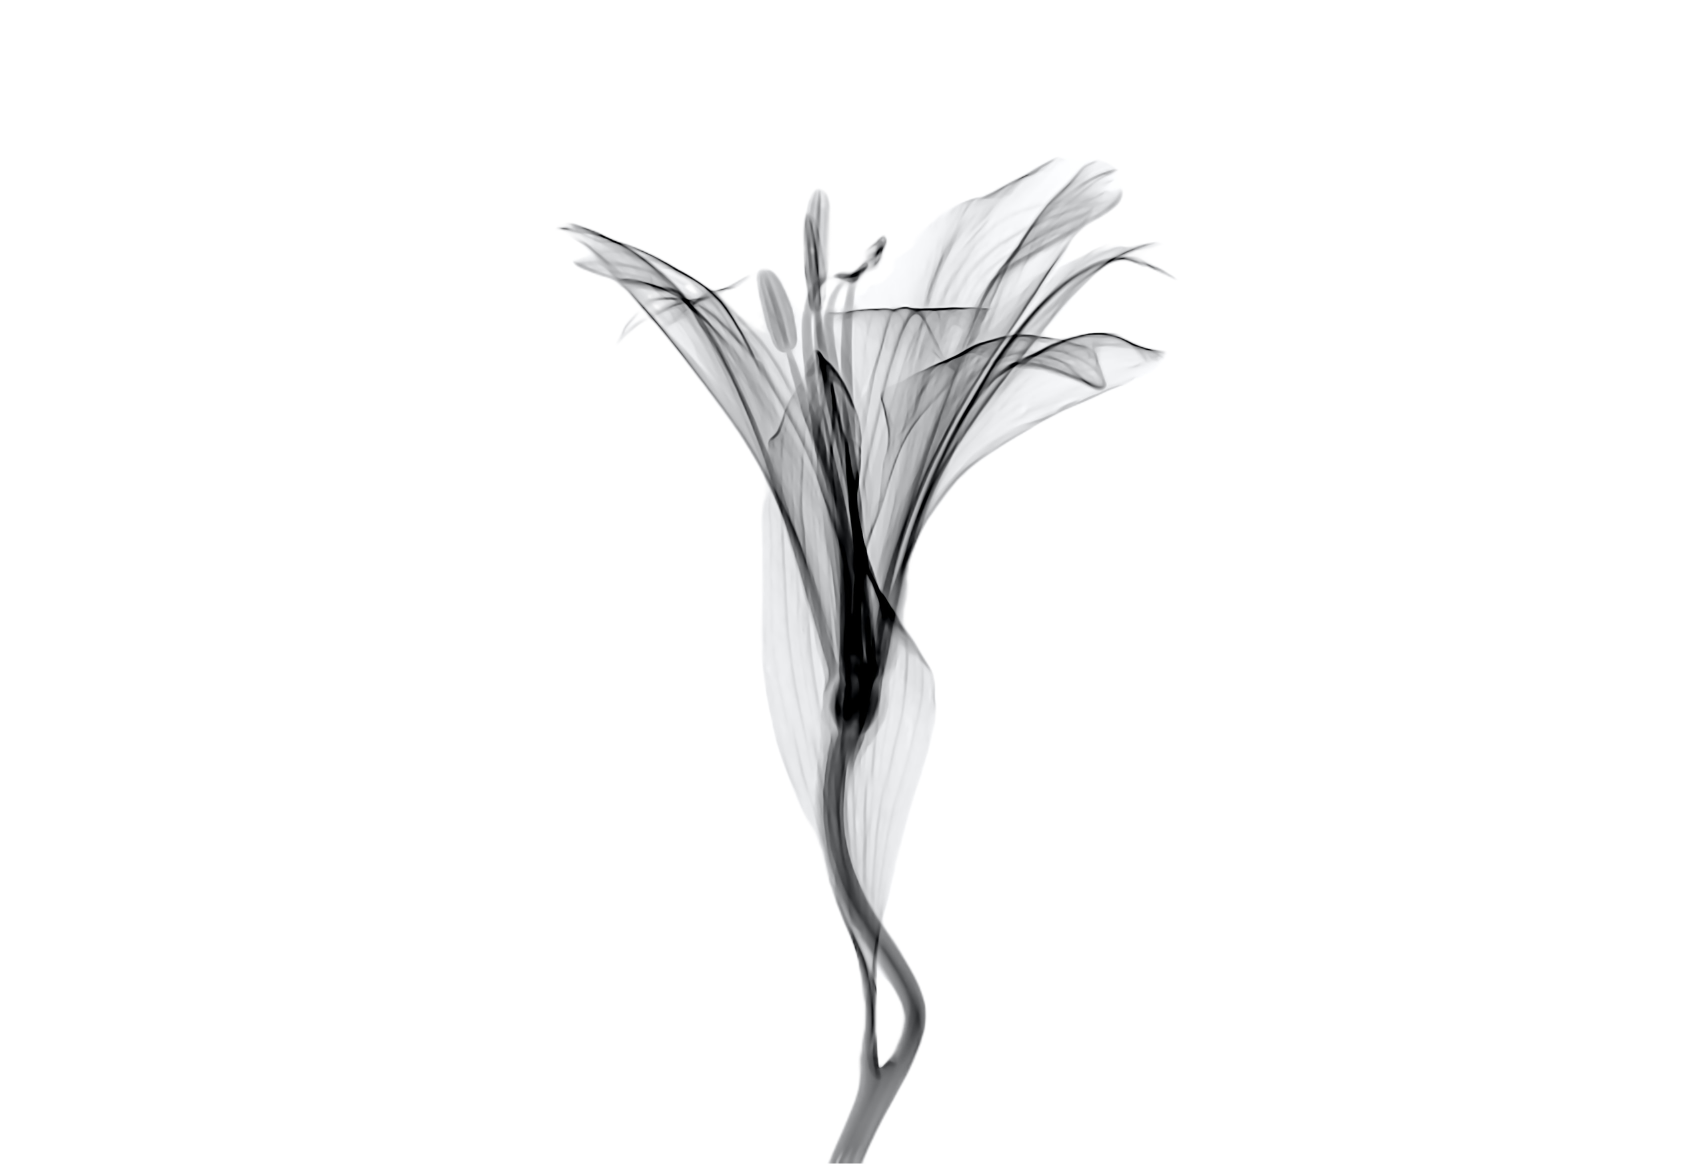
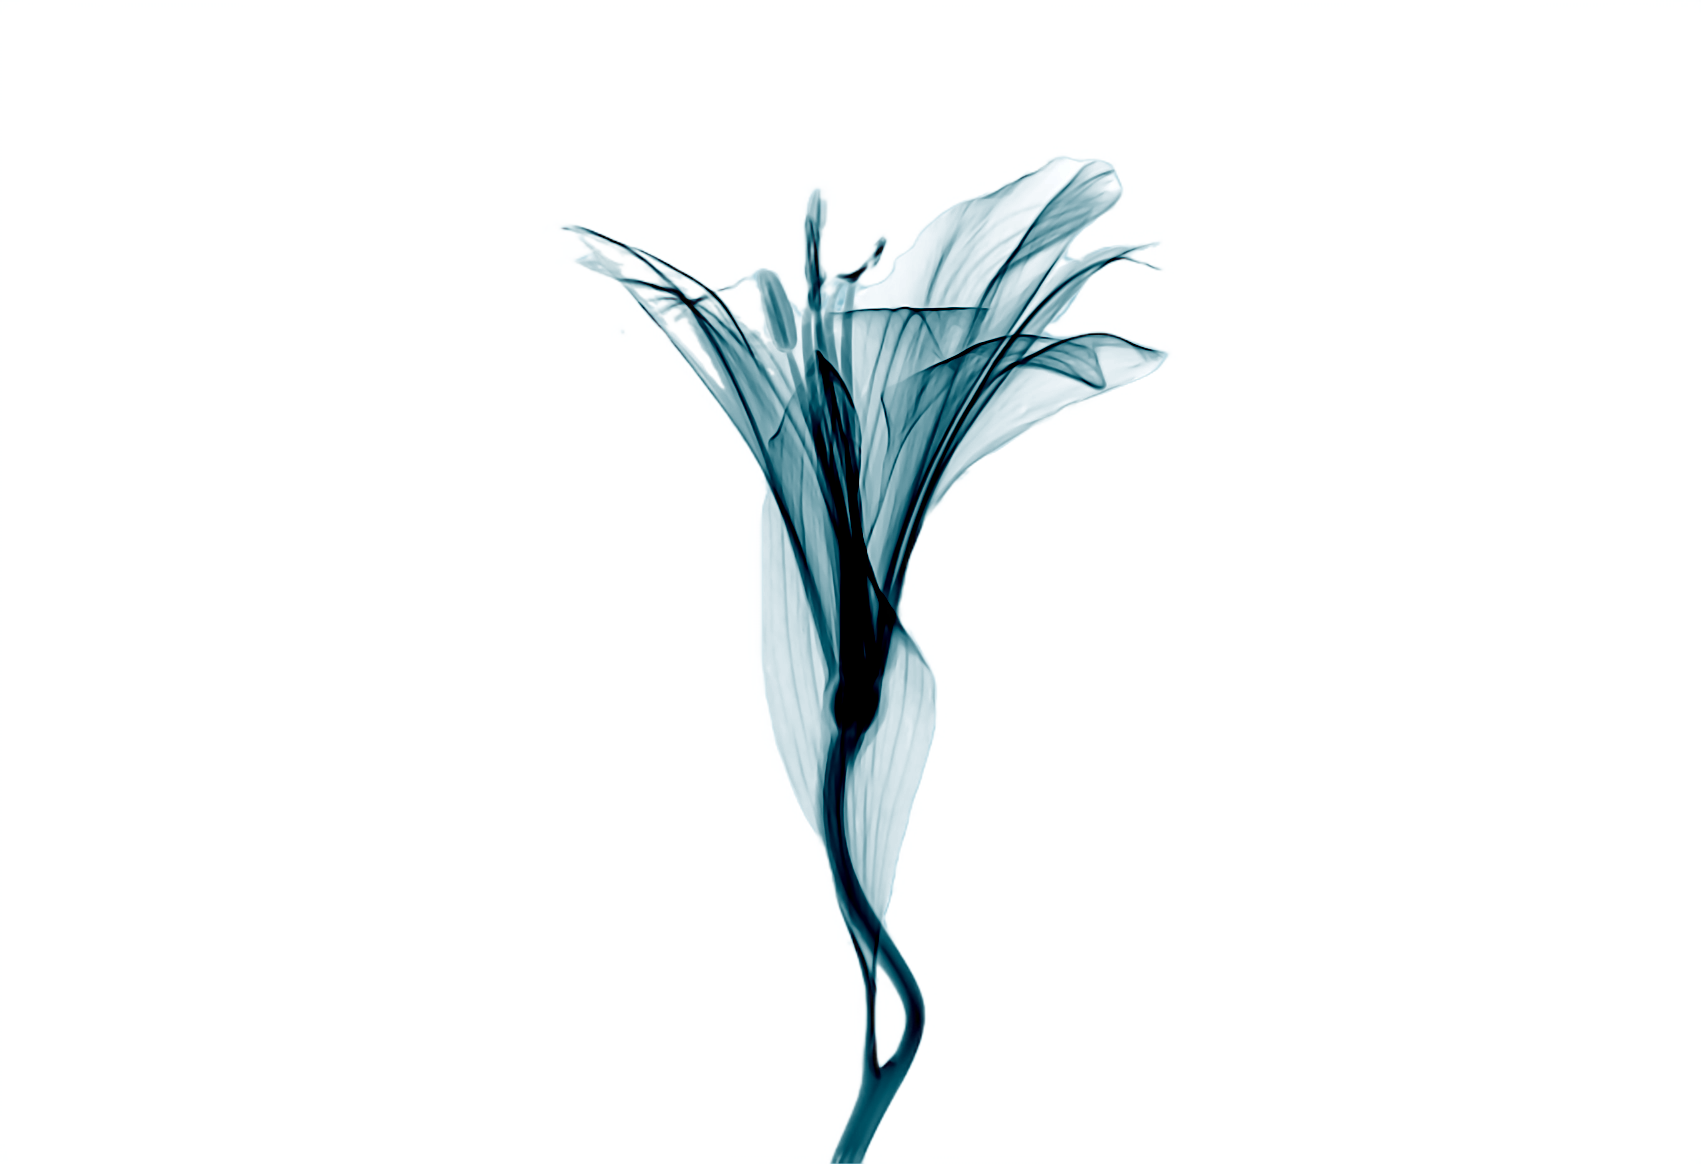
add scrolling based interaction

Changed region(s): [[0.3427, 0.1237, 0.6855, 1.0]]

diff --git a/src/index.html b/src/index.html
@@ -13,12 +13,19 @@
       <a class="menu" href="/">
         <div class="hamburger">
           <svg xmlns="http://www.w3.org/2000/svg" viewBox="0 0 24 24">
-            <path d="M3 4H21V6H3V4ZM3 11H15V13H3V11ZM3 18H21V20H3V18Z"></path>
+            <path
+              d="M3 4H21V6H3V4ZM3 11H15V13H3V11ZM3 18H21V20H3V18Z"
+              fill="#ffffff"
+            ></path>
           </svg>
         </div>
         Menu</a
       >
     </header>
+    <div class="loader-overlay">
+      <div class="loading-bar"></div>
+    </div>
+
     <div class="section_wrapper">
       <div class="hero_container">
         <section class="section is-hero">
@@ -27,7 +34,7 @@
             <div class="mail">jaiswalvishal86@gmail.com</div>
           </div>
           <div class="hero_wrapper">
-            <h1><span class="creative">Creative</span> Experiences</h1>
+            <h1><span class="creative">Creative</span> Designer & Developer</h1>
             <p>
               made with keen eye on design, allowing your brand to grow beyond.
             </p>
@@ -42,7 +49,7 @@
         <div class="spacer"></div>
       </div>
 
-      <section class="section is-about">
+      <section id="about-section" class="section is-about">
         <div class="about_wrapper">
           <div class="about_content">
             <!-- <img alt="icon" src="/static/assets/icon.svg" /> -->
@@ -102,15 +109,11 @@
         <div class="gallery">
           <div class="gallery-wrapper">
             <div class="row">
-              <div class="gallery-img__container">
-                <img alt="project image" src="/assets/building.jpg" />
-              </div>
-
-              <div class="gallery-img__container">
-                <img alt="project image" src="/assets/vishal.jpeg" />
-              </div>
-              <div class="gallery-img__container">
-                <img alt="project image" src="/assets/creative.jpeg" />
+              <div class="hero_wrapper">
+                <h1>
+                  made with keen eye on design, allowing your brand to grow
+                  beyond.
+                </h1>
               </div>
             </div>
             <div class="row">
@@ -127,14 +130,11 @@
             </div>
 
             <div class="row">
-              <div class="gallery-img__container">
-                <img alt="project image" src="/assets/building.jpg" />
-              </div>
-              <div class="gallery-img__container">
-                <img alt="project image" src="/assets/creative.jpeg" />
-              </div>
-              <div class="gallery-img__container">
-                <img alt="project image" src="/assets/vishal.jpeg" />
+              <div class="hero_wrapper">
+                <h1>
+                  made with keen eye on design, allowing your brand to grow
+                  beyond.
+                </h1>
               </div>
             </div>
 
@@ -152,6 +152,25 @@
           </div>
         </div>
       </div>
+      <section class="section is-about">
+        <div class="about_wrapper">
+          <div class="about_content">
+            <!-- <img alt="icon" src="/static/assets/icon.svg" /> -->
+            <h2>About <span class="creative">myself</span></h2>
+            <p>
+              Welcome to my creative design portfolio, where innovation meets
+              imagination! As a passionate creative designer, I thrive on
+              pushing boundaries and crafting visual experiences that leave a
+              lasting impression.
+            </p>
+          </div>
+        </div>
+        <div class="about_sub__content">
+          I believe that design has the power to inspire, inform, and influence.
+          If you're looking for a creative partner who can transform your ideas
+          into compelling visual stories, I invite you to get in touch.
+        </div>
+      </section>
     </div>
     <script type="module" src="./script.js"></script>
   </body>

diff --git a/src/script.js b/src/script.js
@@ -9,10 +9,50 @@ import Lenis from "@studio-freight/lenis";
 import { ScrollTrigger } from "gsap/ScrollTrigger";
 const container = document.querySelector(".gallery-wrapper");
 const rows = document.querySelectorAll(".row");
+const aboutSection = document.getElementById("about-section");
+
+const loaderElement = document.querySelector(".loader-overlay");
+const loadingBarElement = document.querySelector(".loading-bar");
+
+const loadingManager = new THREE.LoadingManager(
+  () => {
+    gsap.delayedCall(0.5, () => {
+      gsap.fromTo(
+        loaderElement,
+        { yPercent: "0" },
+        { duration: 1, yPercent: "-100", ease: "power4.inOut" }
+      );
+      loadingBarElement.classList.add(".ended");
+      loadingBarElement.style.transform = "";
+    });
+  },
+  (itemUrl, itemLoaded, itemTotal) => {
+    const progressRatio = itemLoaded / itemTotal;
+    loadingBarElement.style.transform = `scaleX(${progressRatio})`;
+  }
+);
 
 gsap.registerPlugin(ScrollTrigger);
 
 const timeline = gsap.timeline();
+
+timeline.fromTo(
+  aboutSection,
+  {
+    scaleX: 0.9,
+    borderRadius: "80",
+  },
+  {
+    scaleX: 1,
+    borderRadius: "8",
+    scrollTrigger: {
+      trigger: aboutSection,
+      start: "top+20% bottom",
+      end: "bottom bottom",
+      scrub: 1, // Enables smooth scrolling effect
+    },
+  }
+);
 
 rows.forEach((row, index) => {
   const direction = index % 2 === 0 ? 1 : -1;
@@ -47,7 +87,7 @@ rows.forEach((row, index) => {
     );
 });
 
-const lenis = new Lenis();
+const lenis = new Lenis({ lerp: 0.1, duration: 1 });
 
 lenis.on("scroll", (e) => {
   // console.log(e);
@@ -71,11 +111,6 @@ const parameters = {
   materialColor: "#d9d9d9",
 };
 
-// gui.addColor(parameters, "materialColor").onChange(() => {
-//   material.color.set(parameters.materialColor);
-//   partilesMatrial.color.set(parameters.materialColor);
-// });
-
 /**
  * Base
  */
@@ -93,14 +128,14 @@ const debugObject = {};
 /**
  * Texture Loader
  */
-const loader = new THREE.TextureLoader();
-const imageTexture = loader.load("../assets/plant.png");
+const loader = new THREE.TextureLoader(loadingManager);
+const imageTexture = loader.load("../assets/greenPlant.png");
 
 /**
  * Debug Colors
  */
-debugObject.depthColor = "#f0f0f0";
-debugObject.surfaceColor = "#fafafa";
+debugObject.depthColor = "#E6EFF2";
+debugObject.surfaceColor = "#EEF4F6";
 
 /**
  * Materials
@@ -135,7 +170,7 @@ const treeShaderMaterial = new THREE.RawShaderMaterial({
   },
 });
 
-const textureLoader = new THREE.TextureLoader();
+const textureLoader = new THREE.TextureLoader(loadingManager);
 const gradientTexture = textureLoader.load("textures/gradients/5.jpg");
 gradientTexture.magFilter = THREE.NearestFilter;
 
@@ -146,7 +181,7 @@ const material = new THREE.MeshToonMaterial({
 });
 
 //Geometry
-const treePlaneGeometry = new THREE.PlaneGeometry(3, 2.5, 128, 128);
+const treePlaneGeometry = new THREE.PlaneGeometry(2.5, 2.5, 128, 128);
 const waterPlaneGeometry = new THREE.PlaneGeometry(
   window.innerWidth,
   4,
@@ -179,13 +214,12 @@ const mesh3 = new THREE.Mesh(waterPlaneGeometry, waterMaterial);
 //   material
 // );
 
-mesh1.position.y = -objectDistance * 0.07;
+mesh1.position.y = -objectDistance * 0.1;
 // mesh2.position.y = -objectDistance * 1;
 mesh3.position.y = -objectDistance * 0.4;
 mesh3.rotation.x = -Math.PI * 0.5;
 // mesh3.position.y = -objectDistance * 2;
 
-mesh1.position.x = 0;
 // mesh2.position.x = 2;
 // if (window.innerWidth < 990) {
 //   mesh2.position.x = 0.8;

diff --git a/src/style.css b/src/style.css
@@ -38,6 +38,7 @@ header {
   width: 90%;
   display: flex;
   justify-content: space-between;
+  mix-blend-mode: difference;
   align-items: center;
   margin: 1rem auto;
 }
@@ -45,10 +46,36 @@ header a {
   text-decoration: none;
   font-family: "PP Nune Montreal", sans-serif;
   font-weight: 300;
-  font-size: 1.2rem;
+  font-size: 1.3rem;
   line-height: 0.9;
   /* text-transform: uppercase; */
-  color: black;
+  color: white;
+}
+
+.loader-overlay {
+  position: fixed;
+  width: 100%;
+  height: 100vh;
+  display: flex;
+  align-items: center;
+  justify-content: center;
+  background-color: white;
+  z-index: 10;
+}
+
+.loading-bar {
+  width: 50%;
+  transform: scaleX(0);
+  transform-origin: top center;
+  height: 2px;
+  background: #3f788a;
+  transition: transform 0.5s;
+  will-change: transform;
+}
+
+.loading-bar.ended {
+  transform-origin: top center;
+  transition: transform 1.5s ease-in-out;
 }
 
 .menu {
@@ -62,6 +89,7 @@ header a {
   width: 100%;
   height: 100%;
   min-width: 24px;
+  color: black;
 }
 
 .section {
@@ -101,10 +129,8 @@ header a {
 .section.is-about {
   z-index: 2;
   background-color: #fafafa;
-}
-.section.coming-soon {
-  z-index: 2;
-  background-color: #fafafa;
+  border-top-left-radius: 2rem;
+  border-top-right-radius: 2rem;
 }
 
 .section .scroll_wrapper {
@@ -125,6 +151,7 @@ header a {
 .section .mail_wrapper {
   width: 20%;
   position: absolute;
+  color: #518a9b;
   top: 20%;
   left: 8%;
   display: flex;
@@ -136,6 +163,7 @@ header a {
   right: 8%;
   bottom: 15%;
   text-transform: uppercase;
+  color: #518a9b;
 }
 
 .services_wrapper .service_text {
@@ -153,33 +181,36 @@ header a {
 }
 
 .hero_wrapper h1 {
-  font-size: 7.5vw;
-  font-weight: 400;
-  color: #19263a;
+  font-size: 8vw;
+  font-weight: 300;
+  color: #3f788a;
   text-transform: uppercase;
+  letter-spacing: -4px;
 }
 
 .creative {
   font-style: italic;
   font-weight: 300;
+  color: #3f788a;
 }
 
 .hero_wrapper p {
   font-size: 1.6vw;
-  color: #747479;
+  color: #7d8d92;
   mix-blend-mode: difference;
 }
 
 .section .about_wrapper {
   width: 50%;
   position: absolute;
-  top: 15%;
+  top: 10%;
   left: 8%;
 }
 
 .about_content h2 {
   font-size: 5rem;
   font-weight: 300;
+  color: #518a9b;
 }
 
 .about_content p {
@@ -230,14 +261,13 @@ header a {
 }
 
 .gallery-section {
-  height: 200vh;
+  height: 100vh;
   position: relative;
 }
 
 .gallery {
   height: 100vh;
-  position: sticky;
-  top: 0;
+
   overflow: hidden;
   background: #fafafa;
 }
@@ -288,10 +318,6 @@ header a {
   width: 100%;
   height: 100%;
   object-fit: cover;
-}
-
-.spacer {
-  height: 100vh;
 }
 
 @media only screen and (max-width: 990px) and (min-width: 600px) {
